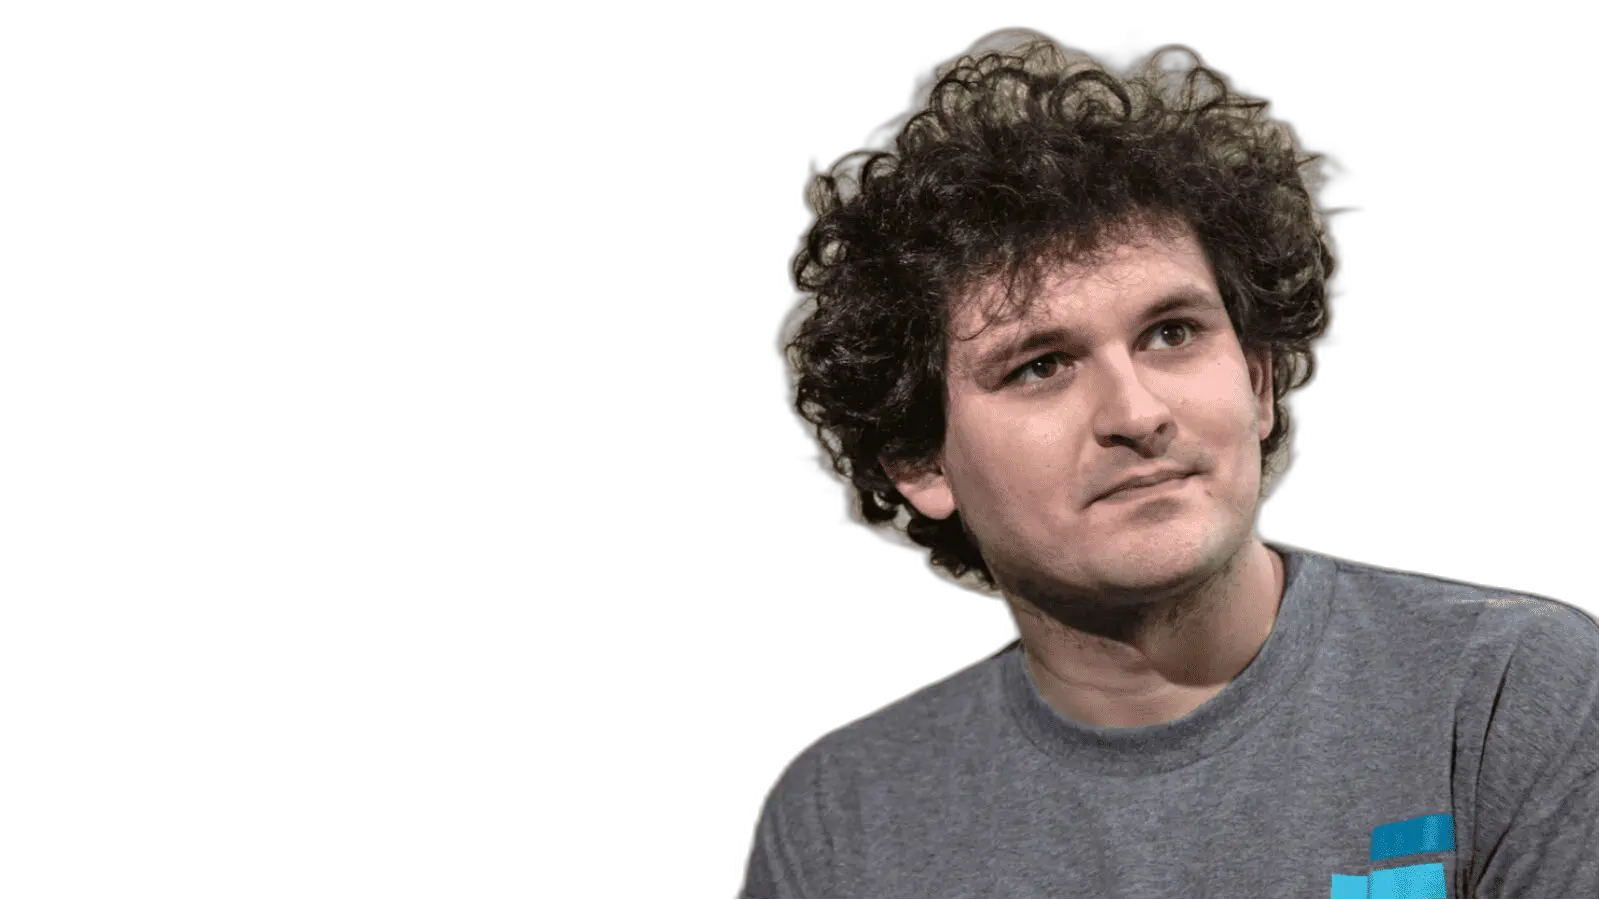
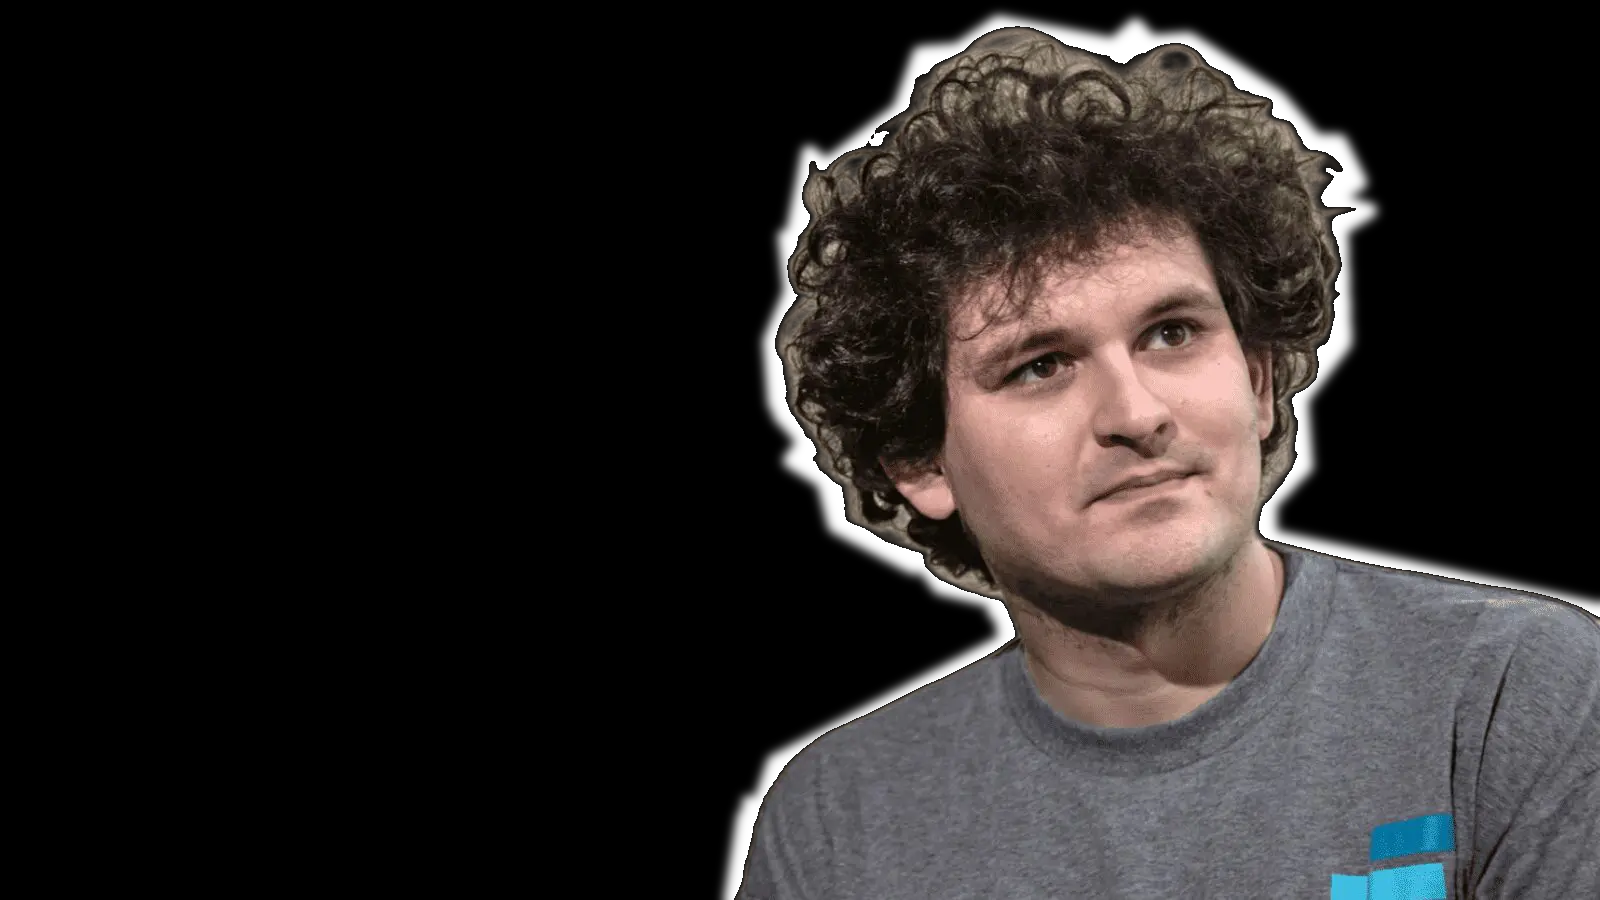
better outline

diff --git a/result.py b/result.py
@@ -9,16 +9,35 @@ folder_dir = './output'
 def processImage(filename):
   img = cv2.imread('./output/' + filename, cv2.IMREAD_UNCHANGED)
   img2 = cv2.imread('./output/' + filename)
-
+  alpha = img[:, :, 3]
+  bgr = img[:,:,0:3]
   # make black and white
-  ret, mask = cv2.threshold(img[:, :, 3], 0, 255, cv2.THRESH_BINARY)
-  
+  ret, mask = cv2.threshold(alpha, 0, 255, cv2.THRESH_BINARY)
+
   # find the external contour
   contours, hierarchy = cv2.findContours(mask, cv2.RETR_EXTERNAL, cv2.CHAIN_APPROX_SIMPLE)
+  
+  big_contour = max(contours, key=cv2.contourArea)
+  peri = cv2.arcLength(big_contour, True)
+  big_contour = cv2.approxPolyDP(big_contour, 0.00154 * peri, True)
+  # draw white filled contour on black background
+  contour_img = np.zeros_like(alpha)
+  cv2.drawContours(contour_img, [big_contour], 0, 255, -1)
 
+  # apply dilate to connect the white areas in the alpha channel
+  kernel = cv2.getStructuringElement(cv2.MORPH_ELLIPSE, (15,15))
+  dilate = cv2.morphologyEx(contour_img, cv2.MORPH_DILATE, kernel)
+  dilate = cv2.GaussianBlur(dilate, (0,0), sigmaX=5, sigmaY=5)
+  dilate = cv2.merge([dilate,dilate,dilate])
+
+  # make background
+  result = np.full_like(bgr, (0, 0, 0))
+  result[dilate>0] = dilate[dilate>0]
+  result[alpha>30] = bgr[alpha>30]
+  #cv2.drawContours(result, [big_contour], 0, 255, -1)
   # draw the contours on the empty image
-  cv2.drawContours(img, contours, -1, (255,255,255, 255), 1)
-  cv2.imwrite('./result/' + filename, img)
+  # cv2.drawContours(img, contours, -1, (255,255,255, 255), 2)
+  cv2.imwrite('./result/' + filename, result)
  
 # iterate over files in
 # that directory
